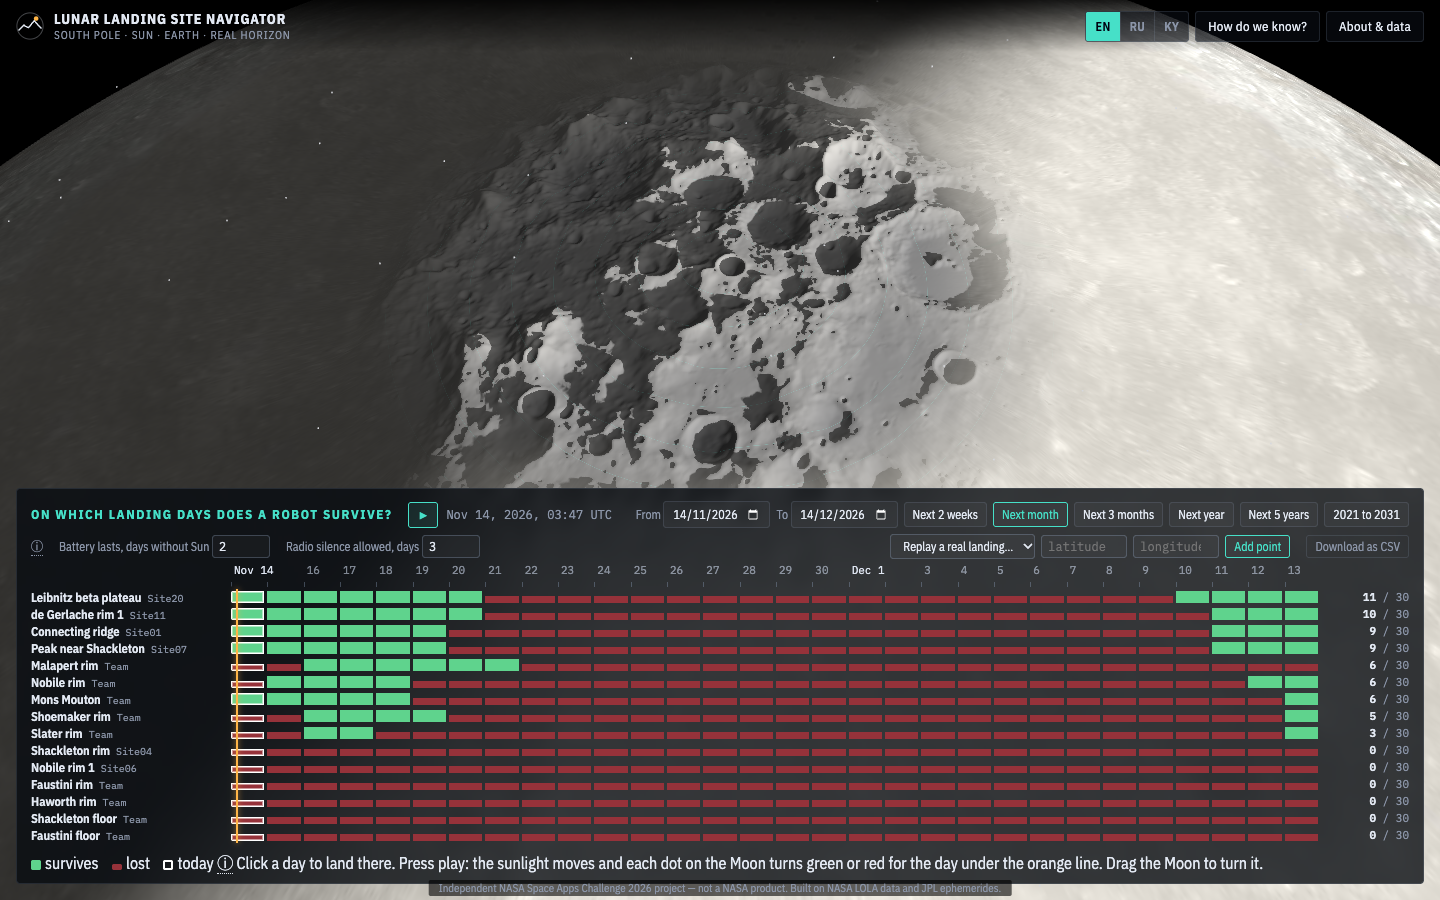
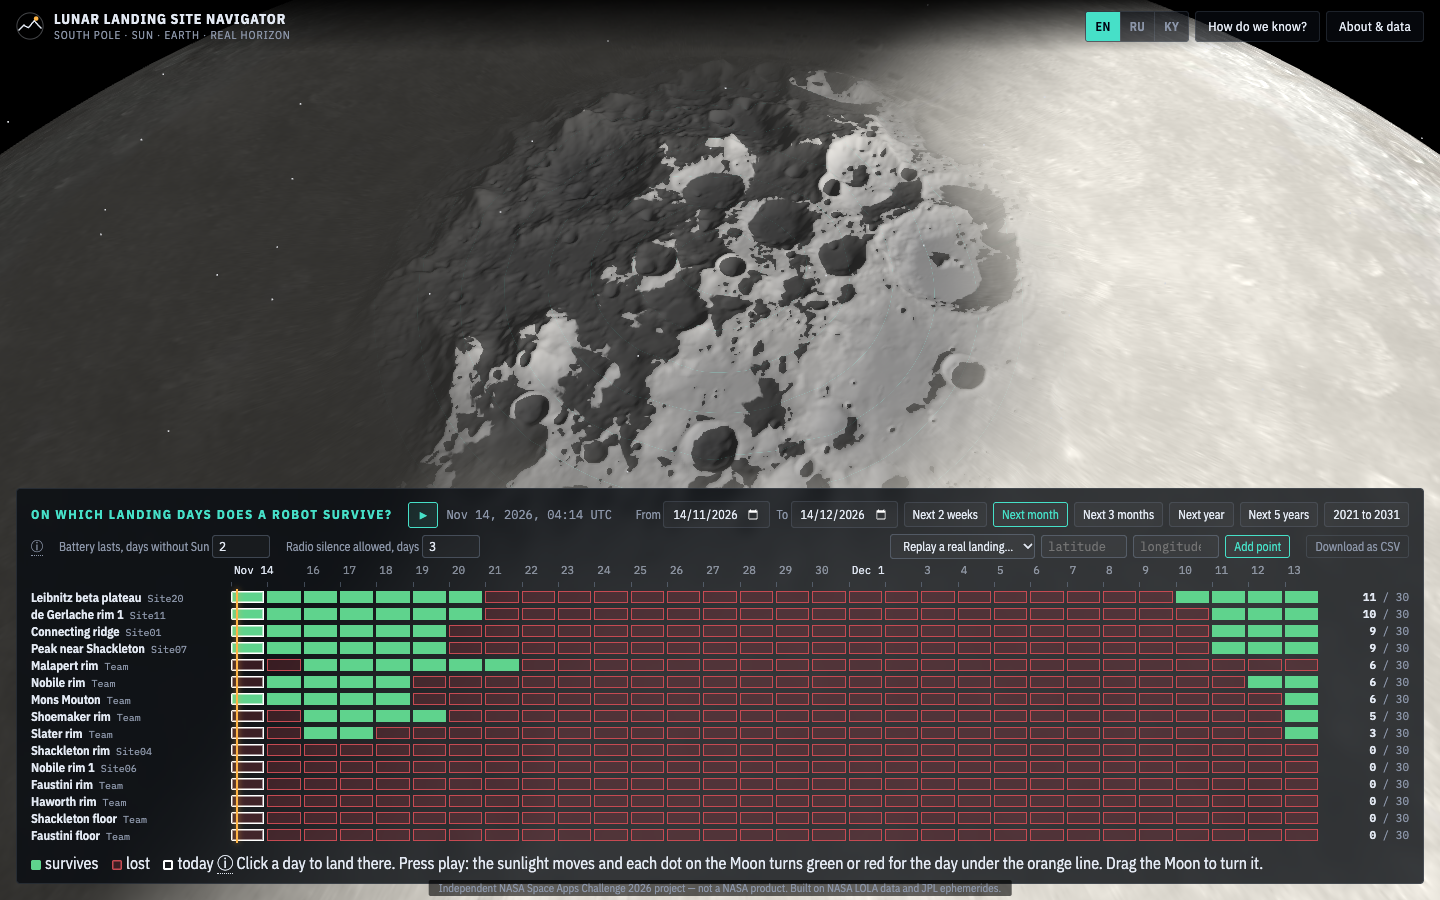
Lost days are hollow blocks of the same height as surviving days: a shorter bar read as a smaller amount; smoke test reads every block

diff --git a/app/src/allsites.js b/app/src/allsites.js
@@ -6,8 +6,9 @@ import { judgeAt } from './verdict.js';
 const I = globalThis.I18n, L = (k, v) => I.t(k, v), DAY = 86400;
 const MUST = ['night', 'radio', 'light', 'slope'];
 const cap = (s) => s[0].toUpperCase() + s.slice(1);
-// Not by colour alone: lost is darker than survives, and where days are separate blocks a lost day is a shorter block.
-const OK = [95, 211, 141], BAD = [150, 50, 58], LOW = 0.4;
+// Not by colour alone: lost is darker than survives, and where days are separate blocks a lost day is a hollow block of
+// the same height (an outline, like the hollow dot of a lost site on the Moon). Height means nothing here, so it never differs.
+const OK = [95, 211, 141], BAD = [150, 50, 58], EDGE = [198, 74, 82];
 const iso = (t) => new Date(t * 1000).toISOString().slice(0, 10);
 
 /** One byte per landing day of the whole period: 0 survives, otherwise 1 + index in MUST of the first failed check.
@@ -89,8 +90,11 @@ export function allSites(root, { sites, days, p0, p1, onPick, onHover = () => {}
       g.clearRect(0, 0, w, h);
       for (let d = st.a; d < st.b; d++) {
         const x0 = Math.round(xOf(d, w)), x1 = Math.round(xOf(d + 1, w)) - gap;
-        const y0 = s.v[d] === 0 ? 0 : Math.round(h * LOW);
-        g.fillStyle = `rgb(${(s.v[d] === 0 ? OK : BAD).join(',')})`; g.fillRect(x0, y0, x1 - x0, h - y0);
+        const y0 = 0, lost = s.v[d] !== 0, bw = x1 - x0, t = Math.max(1, Math.round(1.25 * dpr));
+        if (lost && bw >= 4 * t) { // hollow: a faint fill and an outline
+          g.fillStyle = `rgba(${BAD.join(',')},.3)`; g.fillRect(x0, 0, bw, h);
+          g.strokeStyle = `rgb(${EDGE.join(',')})`; g.lineWidth = t; g.strokeRect(x0 + t / 2, t / 2, bw - t, h - t);
+        } else { g.fillStyle = `rgb(${(lost ? BAD : OK).join(',')})`; g.fillRect(x0, 0, bw, h); }
         if (d === td) { g.strokeStyle = '#fff'; const t = 1.5 * dpr; g.lineWidth = t; g.strokeRect(x0 + t / 2, y0 + t / 2, x1 - x0 - t, h - y0 - t); }
       }
       return good;

diff --git a/app/css/app.css b/app/css/app.css
@@ -271,7 +271,7 @@ html.min #h-variant-note { display: block !important; font-size: 12px; color: va
   .a-row > :last-child, #sites li button small, .a-hint { display: none; }
 }
 body.mode-overview #more { display: none; }
-#sitelist .v-key i.ok { background: rgb(95,211,141); } #sitelist .v-key i.bad { background: rgb(150,50,58); height: 6px; }
+#sitelist .v-key i.ok { background: rgb(95,211,141); } #sitelist .v-key i.bad { background: rgba(150,50,58,.3); box-shadow: inset 0 0 0 1.5px rgb(198,74,82); }
 .pin, #sitelist h2, .a-row button { user-select: none; -webkit-user-select: none; }
 #sites { gap: 1px; } #sites li button { padding: 0; font-size: 12.5px; } .a-row canvas { height: 12px; }
 .a-axis canvas { height: 22px; }
